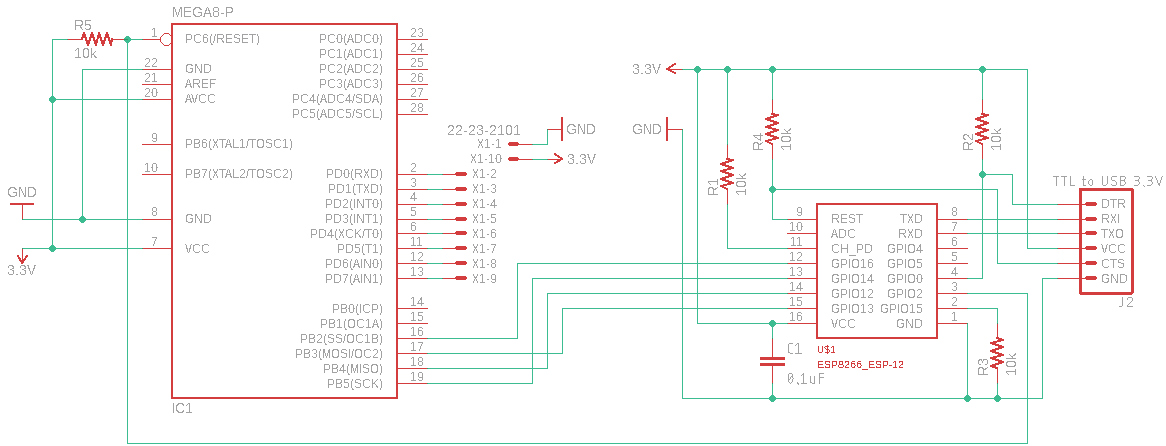
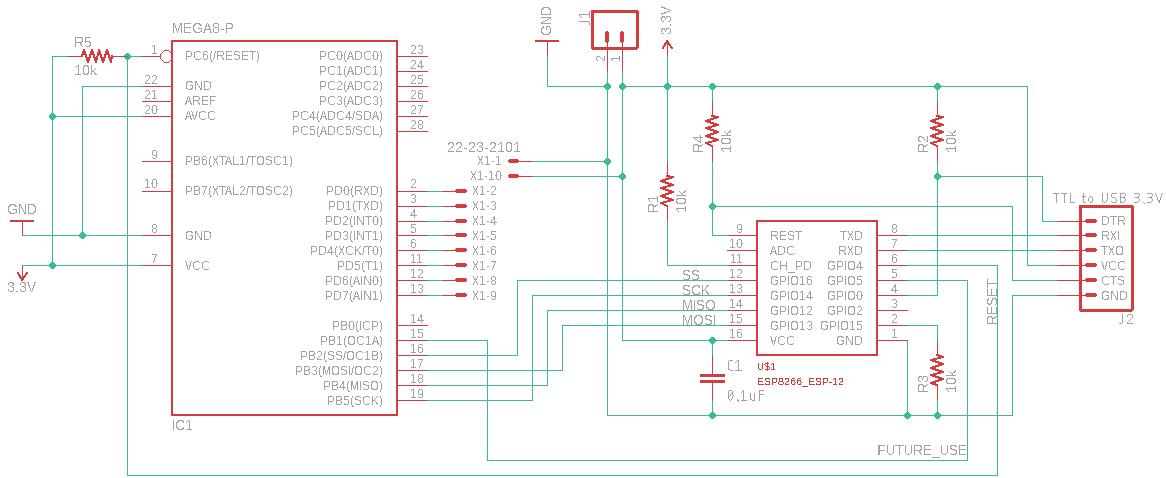
Documentation updates.

diff --git a/top-level-components/secure_esp8266_mqtt_client/README.md b/top-level-components/secure_esp8266_mqtt_client/README.md
@@ -39,7 +39,7 @@ which are very important in order to prevent old and possibly compromised certif
 ### secure_credentials.h
 This file contains a copy of the required certificates and keys that were generated when
 [Creating the MQTT Keys and Certificates](https://github.com/tsi-software/Secure_ESP8266_MQTT_poc/tree/master/top-level-components/mqtt_server_setup#creating-the-mqtt-keys-and-certificates)
-> Storing credentials in source code in considered insecure and considered bad practice! One of the main reasons for this is because source code that is committed to your revision control system becomes openly accessible (the opposite of secure).
+> Storing credentials in source code in considered both insecure and bad practice! One of the main reasons for this is because source code that is committed to your revision control system becomes openly accessible (the opposite of secure).
 In a subsequent version of this project "secure_credentials.h" will be removed and
 replaced with a method of securely injecting credentials into the target devices.
 
@@ -47,13 +47,16 @@ replaced with a method of securely injecting credentials into the target devices
 AsyncWait.h is code that is independent of security but still worth mentioning here.
 One of my prime directives is to never write blocking code (code that waits for something to happen but also prevents any other code from executing).
 AsyncWait allows me to write code in one place that waits for a duration of time but still allows the main loop() to continue processing.
-I think I could write an entirely separate blog on this topic alone.
+I think I may write an entirely separate blog on this topic.
 
 ### Zones.h
 This is application level code, which is independent of security and, therefore, not discussed here.
 
 ### globals.h
 This is application level code, which is independent of security and, therefore, not discussed here.
+
+### Schematics
+![Schematics](Secure_ESP8266_MQTT_schematics.png)
 
 ## Future Features
 
@@ -70,9 +73,6 @@ To Do ...
 <https://github.com/esp8266/Arduino/tree/master/libraries/ESP8266WiFi/examples>
 <https://github.com/esp8266/Arduino/blob/master/libraries/ESP8266WiFi/src/WiFiClientSecureBearSSL.h>
 <https://pubsubclient.knolleary.net/>
-
-# Linux - Secure MQTT Client Certificate setup
-To Do ...
 
 # Android - Secure MQTT Client Certificate setup
 To Do ...

diff --git a/top-level-components/mqtt_server_setup/README.md b/top-level-components/mqtt_server_setup/README.md
@@ -111,7 +111,7 @@ service mosquitto start
 The following command should not cause anything to happen.
 Debug any errors that occur.
 ```bash
-mosquitto_pub -h your-hostname -p 8883 --cafile mosq_ca.crt --debug --topic test/1 -m test
+mosquitto_pub -h your-hostname -p 8883 --cafile mosq_ca.crt --cert mosq_serv.crt --key mosq_serv.key --debug --topic test/1 -m test
 ```
 
 ## MQTT Server References
